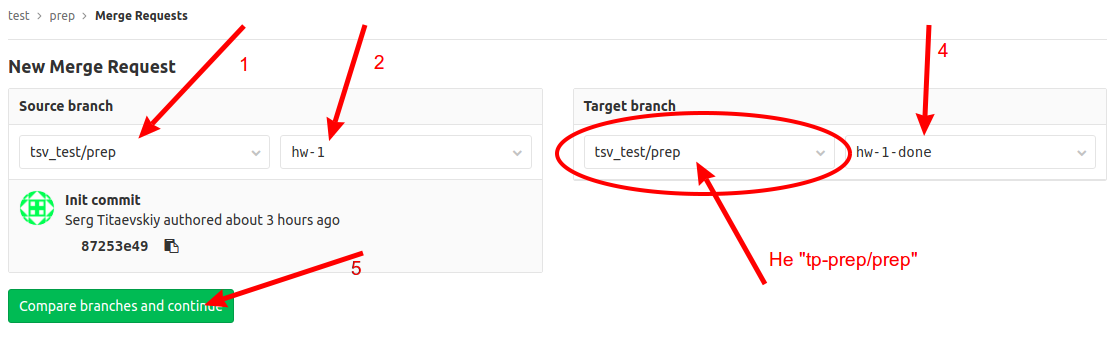
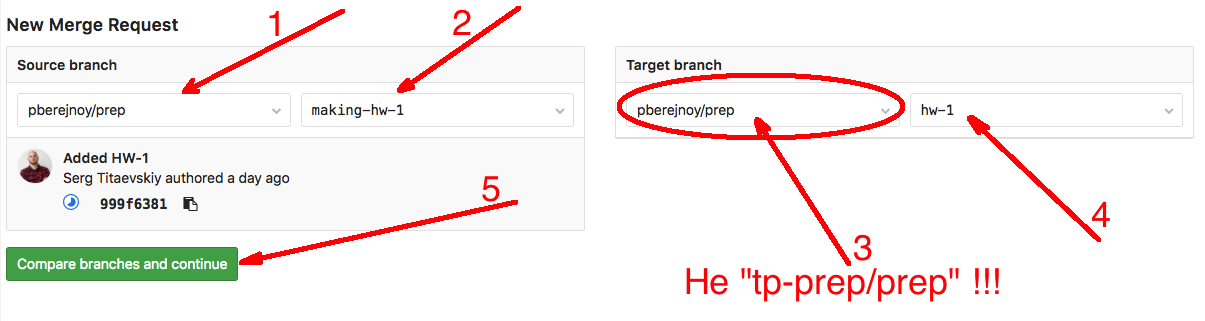
branching fix

diff --git a/README.md b/README.md
@@ -29,10 +29,19 @@
 **Note: все линтеры, сборщики и тесты находятся в той же ветке, что и задание. Их можно и нужно запустить локально,
  перед отправкой на сервер**
 
+Перед тем как начать делать задание, вам необходимо создать новую ветку с любым удобным именем
+(например, **making-hw-_num_**, _num_ - номер задания) от ветки **hw-_num_**:
+```bash
+$ git checkout hw-1
+$ git checkout -b making-hw-1
+```
+
+После этого нужно делать домашнее задание в этой ветке.
+
 ## Защита
 После успешного прогона CI вы можете отправить задание на проверку.
-Для этого нужно сделать **Merge Request** в специальную ветку **hw-_num_-done** (_num_ - номер задания) и добавить
- в **Assignee** любого из преподавателей.
+Для этого нужно сделать **Merge Request** вашей ветки ( **making-hw-_num_** в примере)
+в ветку **hw-_num_** (_num_ - номер задания) и добавить в **Assignee** любого из преподавателей.
 
 **Note: Merge Request необходимо делать в свой форк!**
 
